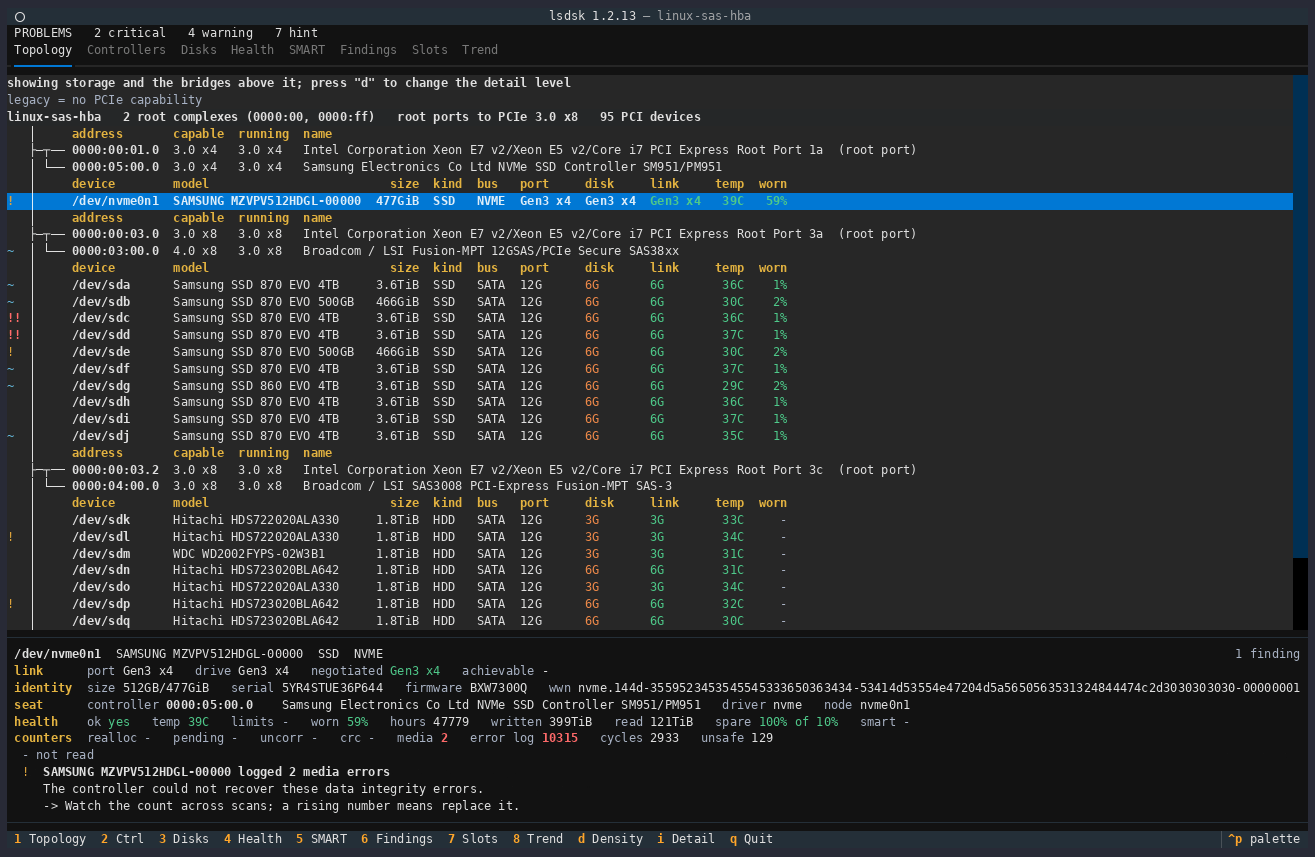
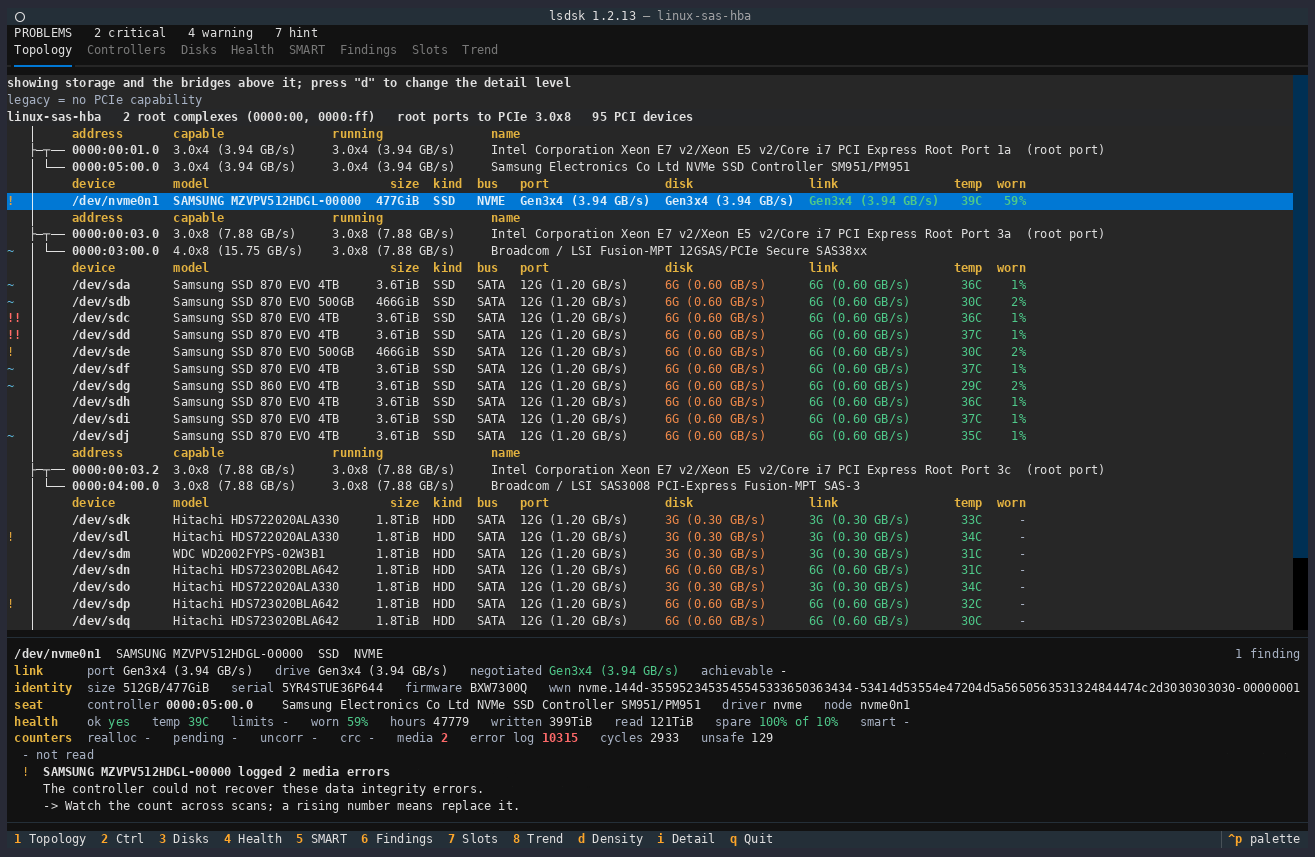
docs(readme,changelog,pictures): the link figures carry their throughput
The README's three example blocks are rewritten from the tool's own output at a
width that affords the detail, and every figure in the hand-abridged slots block
was recomputed through pcie_bandwidth_gbps rather than worked out by hand.

The eight stills and the animation are rebuilt from one recorded pass at 180x50
in Monospace Regular 9, because their contents changed. The controllers page now
shows the HBA at running 3.0x8 (7.88 GB/s) against capable 4.0x8 (15.75 GB/s),
which is the shortfall this tool exists to name, as a number rather than as two
shapes a reader has to price themselves.

diff --git a/README.md b/README.md
@@ -72,18 +72,18 @@ lsdsk  linux-sas-hba   19 disks on 5 controllers
 Topology on linux-sas-hba
 showing storage and the bridges above it; --tree-density to change the detail level
 legacy = no PCIe capability
-linux-sas-hba   2 root complexes (0000:00, 0000:ff)   root ports to PCIe 3.0 x8   95 PCI devices
-   │     address       capable  running  name
-   ├─┬── 0000:00:01.0  3.0 x4   3.0 x4   Intel Corporation ... Root Port 1a  (root port)
-   │ └── 0000:05:00.0  3.0 x4   3.0 x4   Samsung Electronics Co Ltd NVMe SSD Controller SM951
-   │     device        model                         size  kind  bus   port     disk     temp  worn
-!  │     /dev/nvme0n1  SAMSUNG MZVPV512HDGL-00000  477GiB  SSD   NVME  Gen3 x4  Gen3 x4   39C   59%
-   │     address       capable  running  name
-   ├─┬── 0000:00:03.0  3.0 x8   3.0 x8   Intel Corporation ... Root Port 3a  (root port)
-~  │ └── 0000:03:00.0  4.0 x8   3.0 x8   Broadcom / LSI Fusion-MPT 12GSAS/PCIe Secure SAS38xx
-   │     device        model                         size  kind  bus   port     disk     temp  worn
-~  │     /dev/sda      Samsung SSD 870 EVO 4TB     3.6TiB  SSD   SATA  12G      6G        36C    1%
-~  │     /dev/sdb      Samsung SSD 870 EVO 500GB   466GiB  SSD   SATA  12G      6G        30C    2%
+linux-sas-hba   2 root complexes (0000:00, 0000:ff)   root ports to PCIe 3.0x8   95 PCI devices
+   │     address       capable             running             name
+   ├─┬── 0000:00:01.0  3.0x4 (3.94 GB/s)   3.0x4 (3.94 GB/s)   Intel Corporation ... Root Port 1a  (root port)
+   │ └── 0000:05:00.0  3.0x4 (3.94 GB/s)   3.0x4 (3.94 GB/s)   Samsung Electronics Co Ltd NVMe SSD Controller SM951
+   │     device        model                         size  kind  bus   port                disk                temp  worn
+!  │     /dev/nvme0n1  SAMSUNG MZVPV512HDGL-00000  477GiB  SSD   NVME  Gen3x4 (3.94 GB/s)  Gen3x4 (3.94 GB/s)   39C   59%
+   │     address       capable             running             name
+   ├─┬── 0000:00:03.0  3.0x8 (7.88 GB/s)   3.0x8 (7.88 GB/s)   Intel Corporation ... Root Port 3a  (root port)
+~  │ └── 0000:03:00.0  4.0x8 (15.75 GB/s)  3.0x8 (7.88 GB/s)   Broadcom / LSI Fusion-MPT 12GSAS/PCIe Secure SAS38xx
+   │     device        model                         size  kind  bus   port                disk                temp  worn
+~  │     /dev/sda      Samsung SSD 870 EVO 4TB     3.6TiB  SSD   SATA  12G (1.20 GB/s)     6G (0.60 GB/s)       36C    1%
+~  │     /dev/sdb      Samsung SSD 870 EVO 500GB   466GiB  SSD   SATA  12G (1.20 GB/s)     6G (0.60 GB/s)       30C    2%
 
 Controllers on linux-sas-hba        ...
 Disks on linux-sas-hba              ...
@@ -206,11 +206,11 @@ nobody remembers that for eighteen drives at two in the morning. Set the two
 side by side and the remembering stops being your job:
 
 ```
-port  disk  link
-6G    6G    6G    everything agrees, nothing to say
-12G   3G    3G    a 3 Gb/s drive occupying a 12 Gb/s seat
-3G    6G    3G    the port is the limit, the drive could do more
-6G    6G    3G    both ends can do 6 and the link cannot: a fault
+port             disk             link
+6G (0.60 GB/s)   6G (0.60 GB/s)   6G (0.60 GB/s)   everything agrees, nothing to say
+12G (1.20 GB/s)  3G (0.30 GB/s)   3G (0.30 GB/s)   a 3 Gb/s drive occupying a 12 Gb/s seat
+3G (0.30 GB/s)   6G (0.60 GB/s)   3G (0.30 GB/s)   the port is the limit, the drive could do more
+6G (0.60 GB/s)   6G (0.60 GB/s)   3G (0.30 GB/s)   both ends can do 6 and the link cannot: a fault
 ```
 
 Same bytes, off the same drive, from the same commands. What changed is only
@@ -462,11 +462,11 @@ is named with the figure, so a swap is obvious before you open the case.
 
 ```
 MSI MEG Z690 ACE (MS-7D27)   18 ports   3 free
-   port          slot  capable  running  occupant                        needs     verdict
-   0000:00:01.0  #1    Gen5 x8  Gen3 x8  AMD Hawaii XT [Radeon R9 290X]  Gen3 x16  in use (graphics)
-   0000:00:01.1  #2    Gen5 x8  Gen2 x8  Intel 82599ES 10G SFI/SFP+      Gen2 x8   spare 27.50 GB/s
-   0000:00:1d.0  #12   Gen3 x4  Gen3 x4  Samsung 980 PRO 2TB             Gen4 x4   port limits it
-   0000:00:1c.0  #0    Gen3 x1  -        empty                           -         FREE
+   port          slot  capable              running             occupant                        needs               verdict
+   0000:00:01.0  #1    Gen5x8 (31.50 GB/s)  Gen3x8 (7.88 GB/s)  AMD Hawaii XT [Radeon R9 290X]  Gen3x16 (15.76 GB/s)  in use (graphics)
+   0000:00:01.1  #2    Gen5x8 (31.50 GB/s)  Gen2x8 (4.00 GB/s)  Intel 82599ES 10G SFI/SFP+      Gen2x8 (4.00 GB/s)    spare 27.50 GB/s
+   0000:00:1d.0  #12   Gen3x4 (3.94 GB/s)   Gen3x4 (3.94 GB/s)  Samsung 980 PRO 2TB             Gen4x4 (7.88 GB/s)    port limits it
+   0000:00:1c.0  #0    Gen3x1 (0.98 GB/s)   -                   empty                           -                     FREE
 ```
 
 It does not say whether a port is an M.2 socket or a card slot, and that is

diff --git a/CHANGELOG.md b/CHANGELOG.md
@@ -7,6 +7,22 @@ the [Keep a Changelog](https://keepachangelog.com/) format.
 
 ### Added
 
+- **A link figure says what it is worth.** Every PCIe and SATA figure drawn in a
+  column carries its own bandwidth - `Gen3x4 (3.94 GB/s)`, `3.0x4 (3.94 GB/s)`,
+  `6G (0.60 GB/s)` - in the disks, controllers and slots tables, in both trees
+  and in the detail panel. A shape alone says nothing about throughput to a
+  reader who does not carry the PCIe lane table in their head, which is the
+  comparison those columns exist to draw.
+
+- **The bandwidth is surrendered before any column is dropped.** A narrow
+  terminal gives up the detail rather than a fact somebody asked for: measured
+  over the committed captures it costs the disks table 33 characters of natural
+  width, and without the surrender `size` came off both disk tables below about
+  120 columns, which is the width every piped and redirected run uses. The
+  fabric's hop pair has two tiers on the same rule, so below about 100 columns
+  the tree draws what it drew before. A link figure is never clipped and a
+  placeholder never gains a number.
+
 - **The interactive view has its own palette.** The printed one has to stay
   legible on a black console and a white one at once, which caps a saturated hue
   near 4.2:1 and is why it could not simply be brightened. The interactive view
@@ -42,6 +58,10 @@ the [Keep a Changelog](https://keepachangelog.com/) format.
   The fabric tree travels with the JSON output as `pci_tree`.
 
 ### Changed
+
+- **A link figure is written closed**: `Gen4 x4` is now `Gen4x4` and `3.0 x4` is
+  `3.0x4`, in every column and in a finding's own sentence, so a finding and the
+  table above it do not describe one link in two hands.
 
 - **A capacity names the scale it is written on.** A drive is sold in powers of
   ten and reports in powers of two, and the two differ by about 7 percent per
@@ -121,6 +141,25 @@ the [Keep a Changelog](https://keepachangelog.com/) format.
 
 ### Fixed
 
+- **The detail panel put a capable throughput beside a running link.** A
+  controller's link line ended with a single `carries` figure taken from the
+  MAXIMUM, while the first value on that line was what the link is actually
+  running at, so a reader comparing a downgraded card against its own capability
+  took the number nearest what they were looking at. Each figure carries its own
+  now and the stray third value is gone.
+
+- **A hop column was sized by its figures and not by its own heading.** With the
+  figures a character shorter the column would have been 6 while `capable` is 7,
+  and every value would have sat one character right of the header naming it.
+  The guard that was supposed to hold this measured the figures and never the
+  title; there is a second one for the title now, over every field at every
+  width.
+
+- **The interactive slots page had drifted from the printed slots table.** It
+  spelled out its own cells instead of building them from the table's row
+  builder, and drew the decimal generation where the table drew the marketing
+  one for the identical port. It builds from `report.slot_table_row` now.
+
 - **A hop nobody could read no longer claims the device has no PCIe
   capability.** The hop columns decided between `not read` and `legacy PCI` by
   re-reading the dash they had just formatted, so every bridge on a Windows
@@ -194,6 +233,7 @@ the [Keep a Changelog](https://keepachangelog.com/) format.
   also encoded a SUBTREE rule where the densities are implemented as class
   membership, so wiring it in later on the strength of its name would have moved
   the device counts this repo pins.
+
 
 ## [1.2.13] 2026-09-12 23:30:24
 
